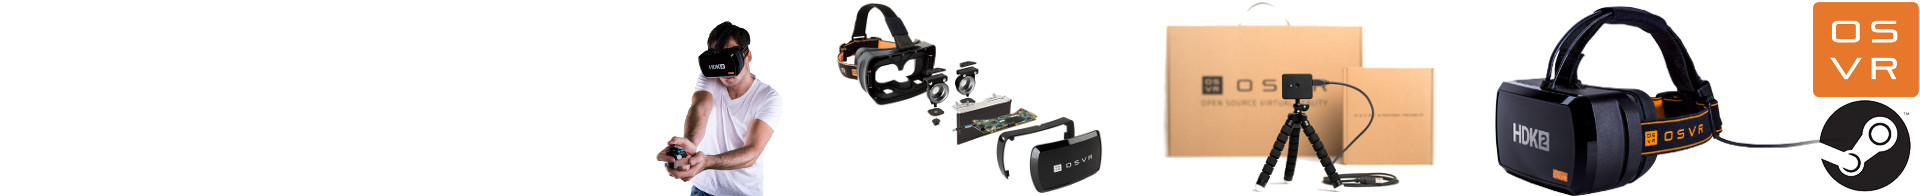
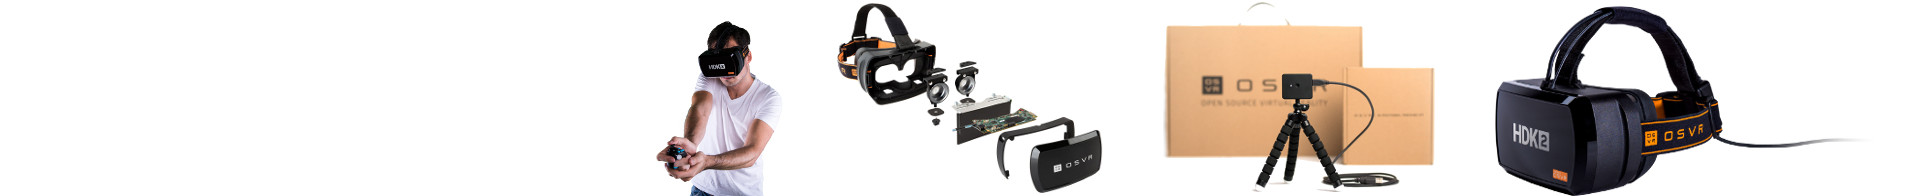
Fixes to header, sticky links, and text.

Changed region(s): [[0.9375, 0.0, 1.0, 0.9796]]

diff --git a/linkbox-style.css b/linkbox-style.css
@@ -1,32 +1,46 @@
-/* --- Add-on: LINK BOX BEFORE LISTINGS ON MAIN PAGE --- */
-https://www.reddit.com/r/naut/comments/4p6i0n/announcement_bar/
-      body.listing-page > .content {margin-top: 66px;}
+/* --- Add-on: LINK BOX BEFORE LISTINGS ON MAIN PAGE ---
+Borrowed from /u/ck2875 https://www.reddit.com/r/ck2875/about/stylesheet 
+Anything in the sidebar at header level 5 (#####) will show up as an announcement.
+Not currently used because it seems to conflict with RES a bit.
+*/
+
+    body.listing-page > .content .sitetable {margin-top: 66px;}
+
+    .listing-page .side .titlebox .md h5:before{
+         content:"NEWS:";
+         display:block;
+         position:absolute;
+          text-indent: 0px;
+          padding: 0px 10px 0px 16px;
+          background-color: #27b062;
+          color: #fff;
+          border-radius: 2px 0px 0px 2px;
+          left: 0px;}
 
     .listing-page .side .titlebox .md h5 {
-           display: block;
-           min-width:550px;
-           overflow: hidden;
-           text-overflow: hidden;
-           position: absolute;
-           top: 202px;
-           left: 16px;
-           border-radius: 2px;
-           padding: 0px 15px;
-           background: #fff;
-           box-shadow:0 1px 4px 0 rgba(0,0,0,0.14);
-           right: 352px;
-           font-size: 13px;
-           height: 35px; line-height: 35px;
-           text-decoration: none;
-           animation-name: fadein;
-           animation-duration: .75s;
-           animation-iteration-count: 1;
-          -webkit-animation-name: fadein;
-          -webkit-animation-duration: .75s;
-          -webkit-animation-iteration-count: 1;
-          }
+        display: block;
+        text-indent: 50px;
+        min-width:550px;
+        overflow: hidden;
+        text-overflow: hidden;
+        position: absolute;
+        top: 202px;
+        left: 16px;
+        border-radius: 2px;
+        padding: 0px 15px 0px 30px;
+        background: #fff;
+        box-shadow:0 1px 4px 0 rgba(0,0,0,0.14);
+        right: 352px;
+        font-size: 13px;
+        height: 35px; line-height: 35px;
+        text-decoration: none;
+        animation-name: fadein;
+        animation-duration: .75s;
+        animation-iteration-count: 1;
+        -webkit-animation-name: fadein;
+        -webkit-animation-duration: .75s;
+        -webkit-animation-iteration-count: 1;}
 
-          .md, .md h5 {font-weight: 400;}
-          .md h5 {border: 0;color: #000!important}
-           h5 {font-size: 100%;}
-/* End Addon */
+    .md, .md h5 {font-weight: 400;}
+    .md h5 {border: 0;color: #000!important}
+    h5 {font-size: 100%;}

diff --git a/stylesheet.css b/stylesheet.css
@@ -157,3 +157,7 @@ html:lang(od) .link:not(.linkflair-osvr) {
 /* Addon: Add Black Bar */
 #sr-header-area { background-color: rgba(0,0,0,0.5); }
 /* End Addon */
+
+/* Addon: Change Header Subreddit Name Color */
+#header .pagename a {color: rgba(230, 119, 43, 0.9)}
+/* End Addon */

diff --git a/sidebar-contents.md b/sidebar-contents.md
@@ -1,24 +1,18 @@
-Welcome to /r/OSVR.
+# Welcome
 
 **If you're looking to set up your HDK 2.0, just click [here](https://www.reddit.com/r/OSVR/comments/67hqrf/hdk_windows_installer_beta_080_released/) for links to the All-In-One HDK Installer!**
 
 Below are some other links to help you get started:
-
-* [Check out the /r/OSVR Wiki for FAQ, plugins, and more](http://www.reddit.com/r/osvr/wiki) 
+ 
 * [All-in-One Installer Wiki & Quick Start Guide](http://wiki.osvr.org/display/DD/Hacker+Development+Kit+%28HDK%29+Online+Documentation)
 * [Official developer documentation]
 (https://github.com/OSVR/OSVR-Docs/blob/master/README.md)
 * [Get support for your HDK here](https://github.com/OSVR/OSVR-Docs/blob/master/README.md#getting-support)
 
-**PSA: A new SteamVR driver has been released! This driver may improve tracking performance in SteamVR for some. Instructions for installation alongside the All-In-One installer are available in [the release thread](https://www.reddit.com/r/OSVR/comments/692hgo/new_release_of_steamvrosvr_build_342/).**
 
-**PSA: The All-In-One HDK Installer has been updated to version 0.8.0, and now includes the "BUB" tracking update! Check out the [release thread here](https://www.reddit.com/r/OSVR/comments/67hqrf/hdk_windows_installer_beta_080_released/).**
+---
 
-**PSA: The long-awaited tracking update is finally here! See [this post](https://www.reddit.com/r/OSVR/comments/5rdm6h/updated_tracker_code_now_merged_and_ready_for/) for details.**
-
-
-****
-**Post Filters**
+# Post Filters
 
 [OSVR Discussion](http://od.reddit.com/r/osvr/#od)
 
@@ -35,3 +29,5 @@ Below are some other links to help you get started:
 [Other](http://ot.reddit.com/r/osvr/#ot)
 
 [Subreddit](http://www.reddit.com/r/osvr)
+
+##### /r/OSVR just got a lot more stylish! Let us know what you think [here](https://www.reddit.com/r/OSVR/comments/6vul35/new_subreddit_style/).

diff --git a/sticky-links.md b/sticky-links.md
@@ -1,0 +1,21 @@
+# August 2017: Announcements and Links
+
+## Announcements
+
+This new sticky will be used to hold previous announcements and links. If any of these links are archived, you may discuss them here.
+
+---
+
+## Links to Previous Stickies
+
+* [New Subreddit Style](https://www.reddit.com/r/OSVR/comments/6vul35/new_subreddit_style/)
+/r/OSVR has a brand new style. Let us know what you think!
+
+* [Gamma Correction - Palace Demo](https://www.reddit.com/r/OSVR/comments/6i7gsf/gamma_correction_palace_demo/)
+Experiment with new gamma profiles that may improve image quality.
+
+* [New HDK2 Distortion Mesh Testing](https://www.reddit.com/r/OSVR/comments/6g9lic/new_hdk2_distortion_mesh_testing/)
+Try out the new distortion meshes, which have been found to nearly eliminate distortion in the HDK2.
+
+* [HDK Windows Installer Beta 0.8.0](https://www.reddit.com/r/OSVR/comments/67hqrf/hdk_windows_installer_beta_080_released/)
+Use this to install the HDK Software Suite, the easiest way to get your OSVR HDK2 up and running.
